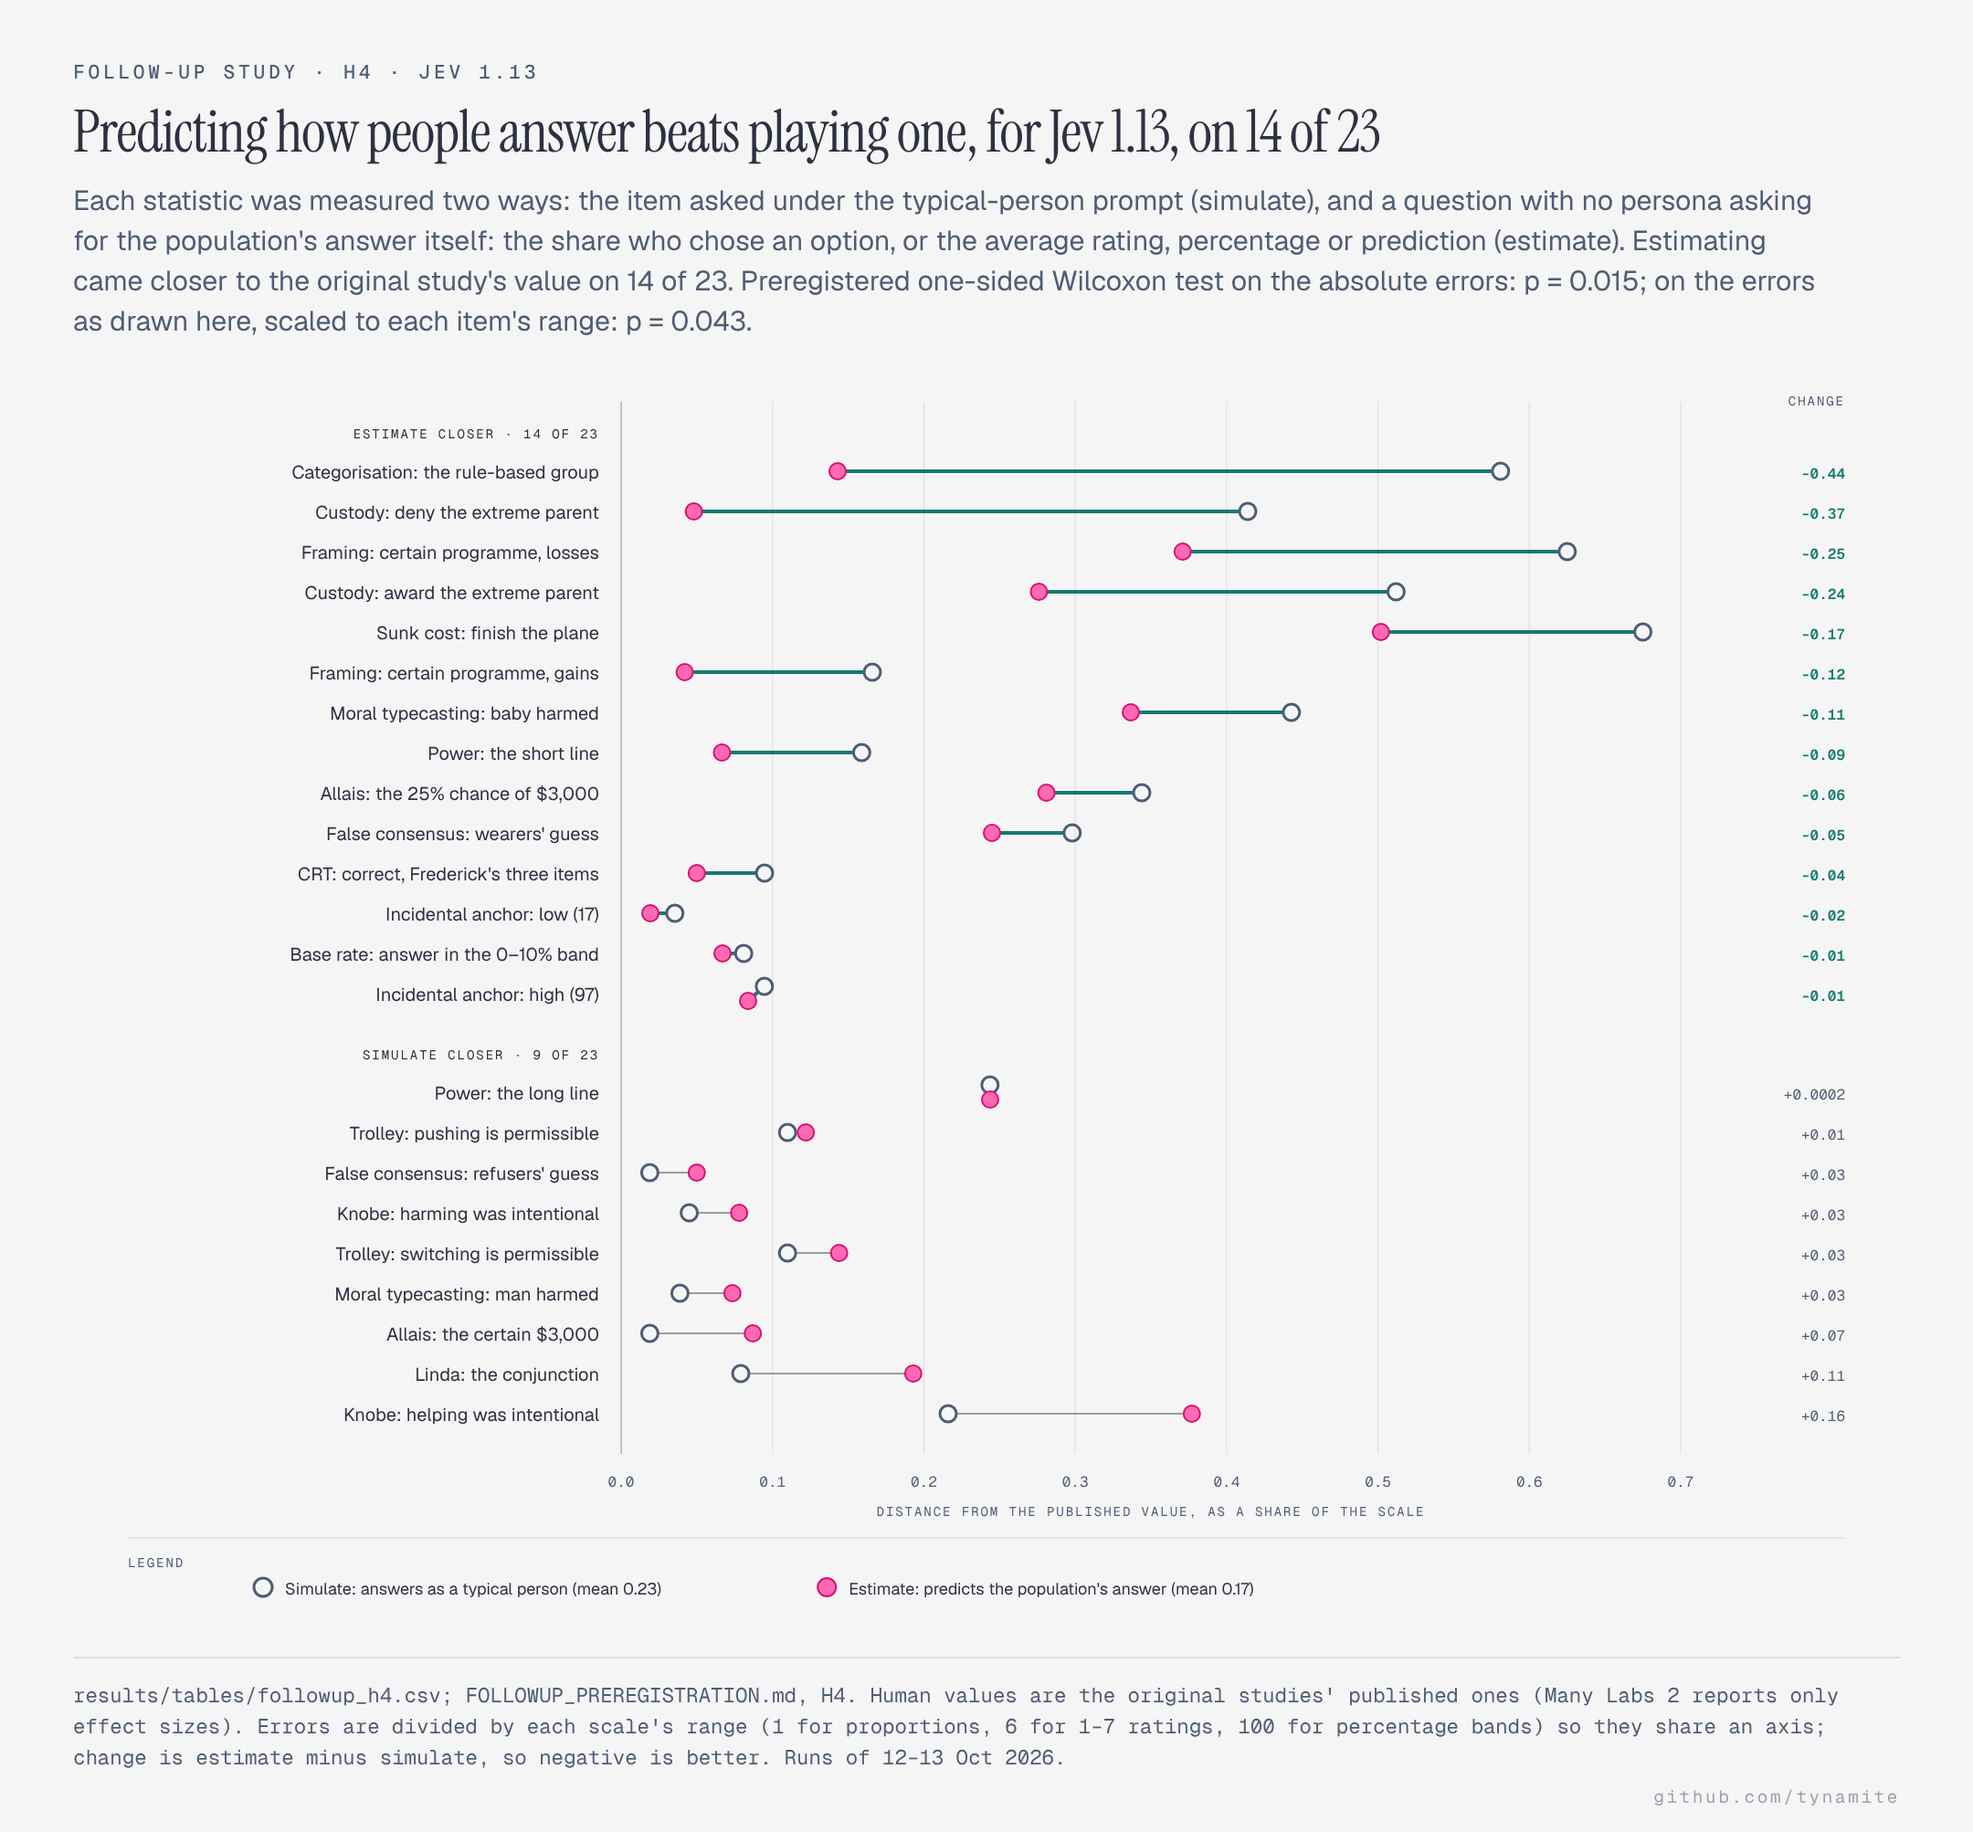
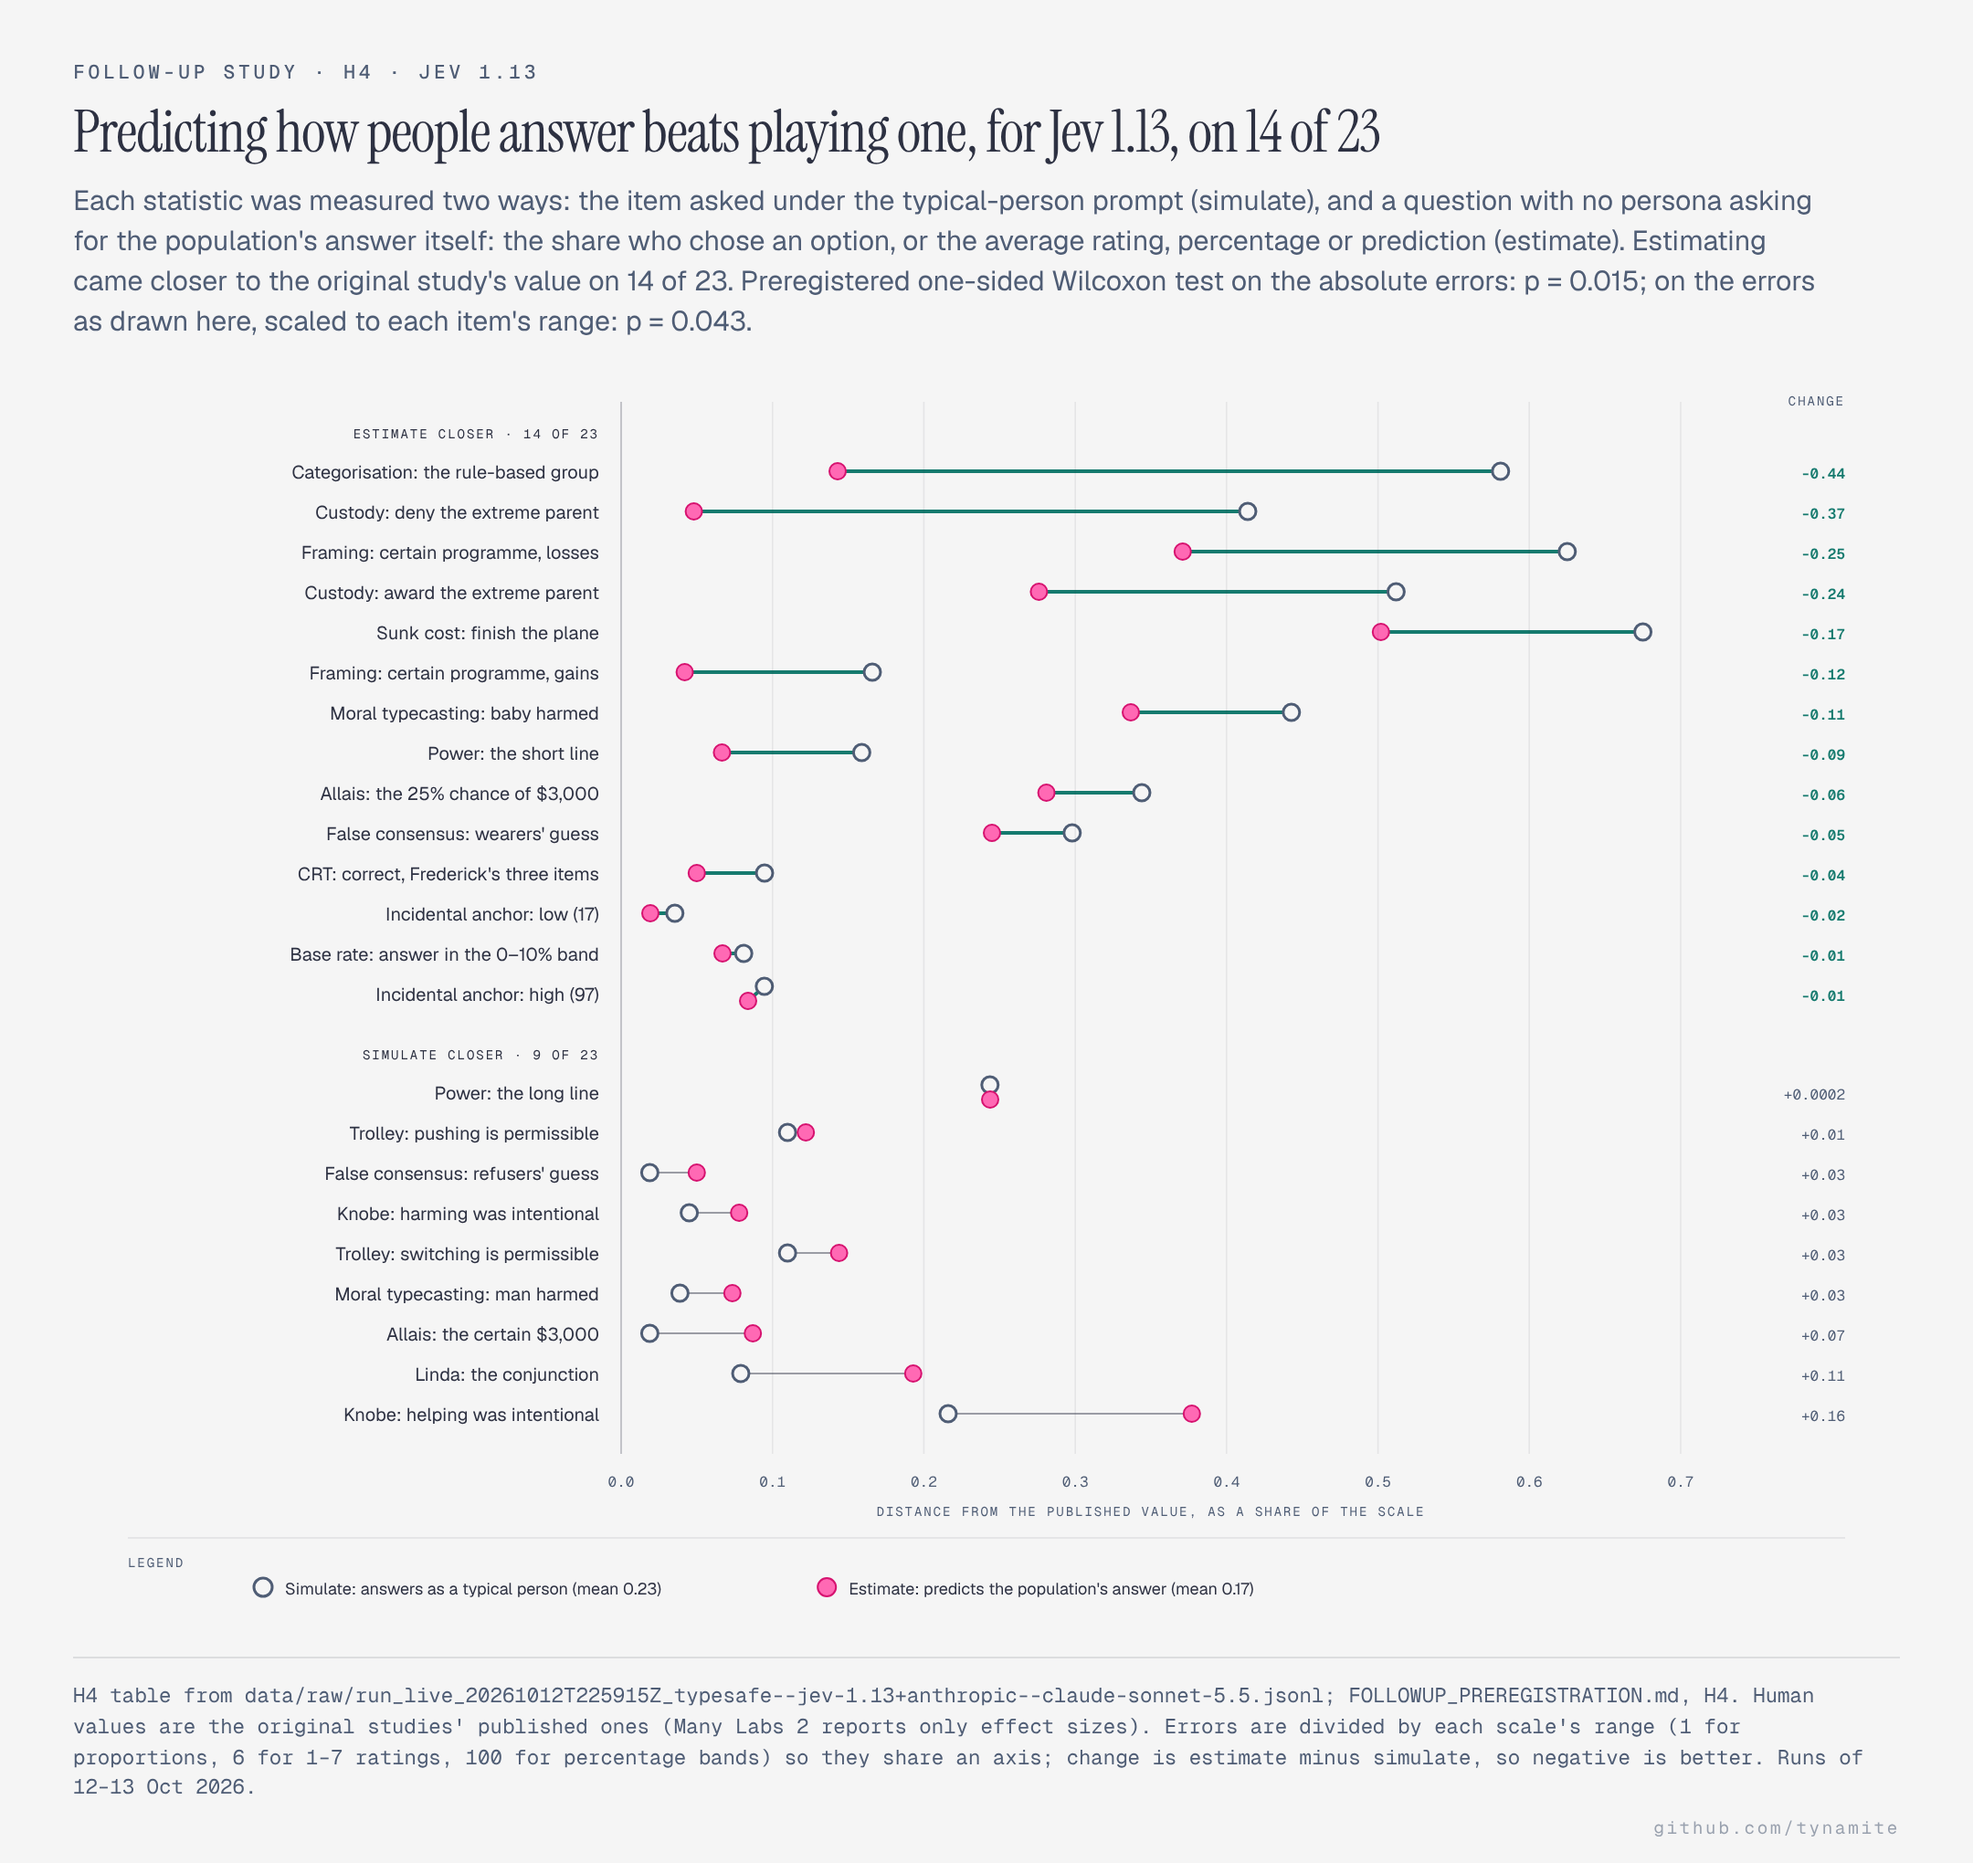
H4 chart: cite the run file it was drawn from

diff --git a/docs/diagrams/followup-h4.html b/docs/diagrams/followup-h4.html
@@ -196,7 +196,7 @@
 <text x="424.6" y="697" fill="#2d3142" font-size="9" font-family="'Geist', system-ui, sans-serif" text-anchor="start">Estimate: predicts the population&#x27;s answer (mean 0.17)</text>
       </svg>
     </div>
-    <p class="source">results/tables/followup_h4.csv; FOLLOWUP_PREREGISTRATION.md, H4. Human values are the original studies&#x27; published ones (Many Labs 2 reports only effect sizes). Errors are divided by each scale&#x27;s range (1 for proportions, 6 for 1–7 ratings, 100 for percentage bands) so they share an axis; change is estimate minus simulate, so negative is better. Runs of 12–13 Oct 2026.</p>
+    <p class="source">H4 table from data/raw/run_live_20261012T225915Z_typesafe--jev-1.13+anthropic--claude-sonnet-5.5.jsonl; FOLLOWUP_PREREGISTRATION.md, H4. Human values are the original studies&#x27; published ones (Many Labs 2 reports only effect sizes). Errors are divided by each scale&#x27;s range (1 for proportions, 6 for 1–7 ratings, 100 for percentage bands) so they share an axis; change is estimate minus simulate, so negative is better. Runs of 12–13 Oct 2026.</p>
     <p class="mark" aria-hidden="true">github.com/tynamite</p>
   </div>
 </body>

diff --git a/src/jevbench/diagrams.py b/src/jevbench/diagrams.py
@@ -2386,7 +2386,7 @@ def _signed(v: float) -> str:
     return f"{v:+.2f}" if abs(v) >= 0.005 else f"{v:+.1g}"
 
 
-def fig_h4(h4: pd.DataFrame) -> Figure:
+def fig_h4(h4: pd.DataFrame, run_name: str = "the run shown") -> Figure:
     """Follow-up H4 for Jev: each statistic's error simulated and estimated, closer one first.
 
     Errors are divided by each scale's range so proportions, 1-7 ratings and
@@ -2534,7 +2534,7 @@ def fig_h4(h4: pd.DataFrame) -> Figure:
         height=int(ky + 18),
         body="\n".join(out),
         source=(
-            "results/tables/followup_h4.csv; FOLLOWUP_PREREGISTRATION.md, H4. Human values are the "
+            f"H4 table from {run_name}; FOLLOWUP_PREREGISTRATION.md, H4. Human values are the "
             "original studies' published ones (Many Labs 2 reports only effect sizes). Errors are "
             "divided by each scale's range (1 for proportions, 6 for 1–7 ratings, 100 for percentage "
             "bands) so they share an axis; change is estimate minus simulate, so negative is better. "
@@ -2670,7 +2670,7 @@ def build_diagrams(
     h4_path = tables_dir / "followup_h4.csv"
     h4 = pd.read_csv(h4_path) if h4_path.exists() and h4_path.stat().st_size else pd.DataFrame()
     if len(h4):
-        figures.insert(7, fig_h4(h4))
+        figures.insert(7, fig_h4(h4, f"data/raw/{run_path.name}"))
     else:
         # Leave no chart from an earlier run behind.
         (out_dir / f"{H4_SLUG}.html").unlink(missing_ok=True)

diff --git a/tests/test_diagrams.py b/tests/test_diagrams.py
@@ -365,3 +365,8 @@ def test_diagrams_refuse_a_run_with_a_failed_repeat(tmp_path: Path) -> None:
             dst.write(line)
     with pytest.raises(ValueError, match=r"1 of \d+ core item-and-prompt cells have fewer than 10"):
         build_diagrams_for_run(run, REPO_ROOT / "results" / "comparison", tmp_path / "out")
+
+
+def test_h4_chart_cites_the_run_it_was_drawn_from(built: list[Path]) -> None:
+    page = next(p for p in built if p.stem == "followup-h4").read_text()
+    assert f"data/raw/{COMMITTED_RUN.name}" in page
